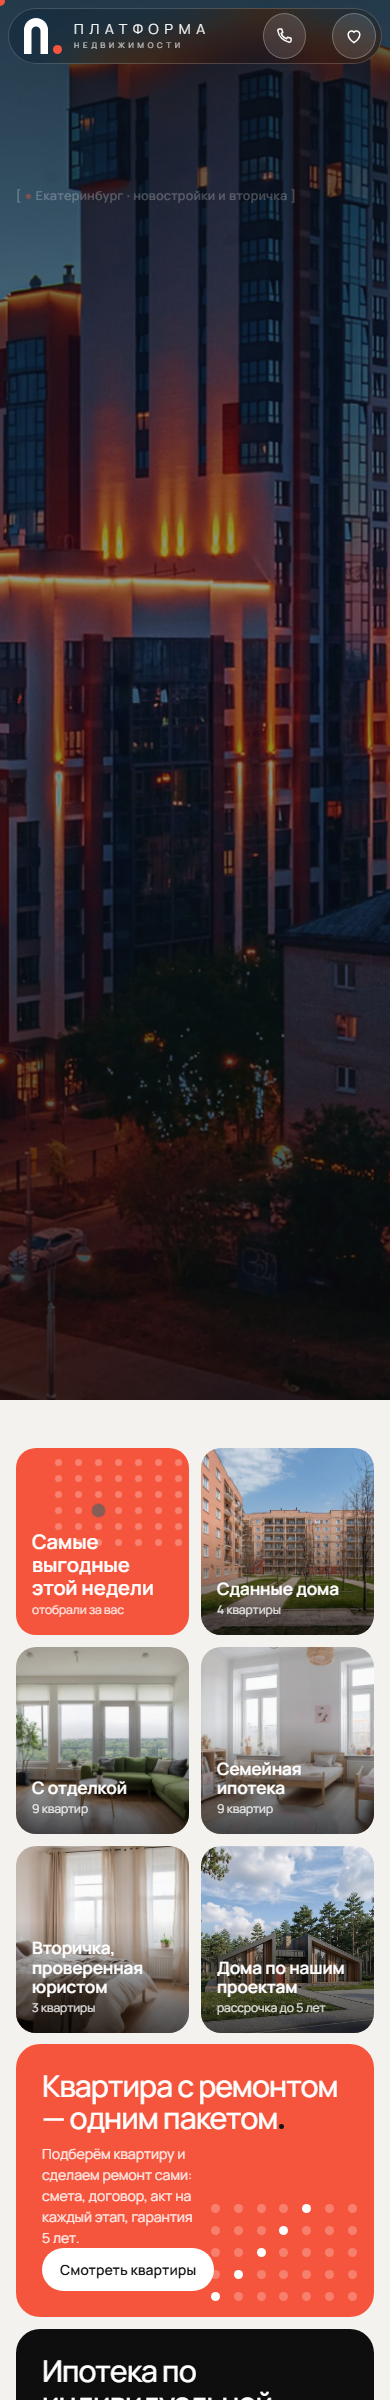
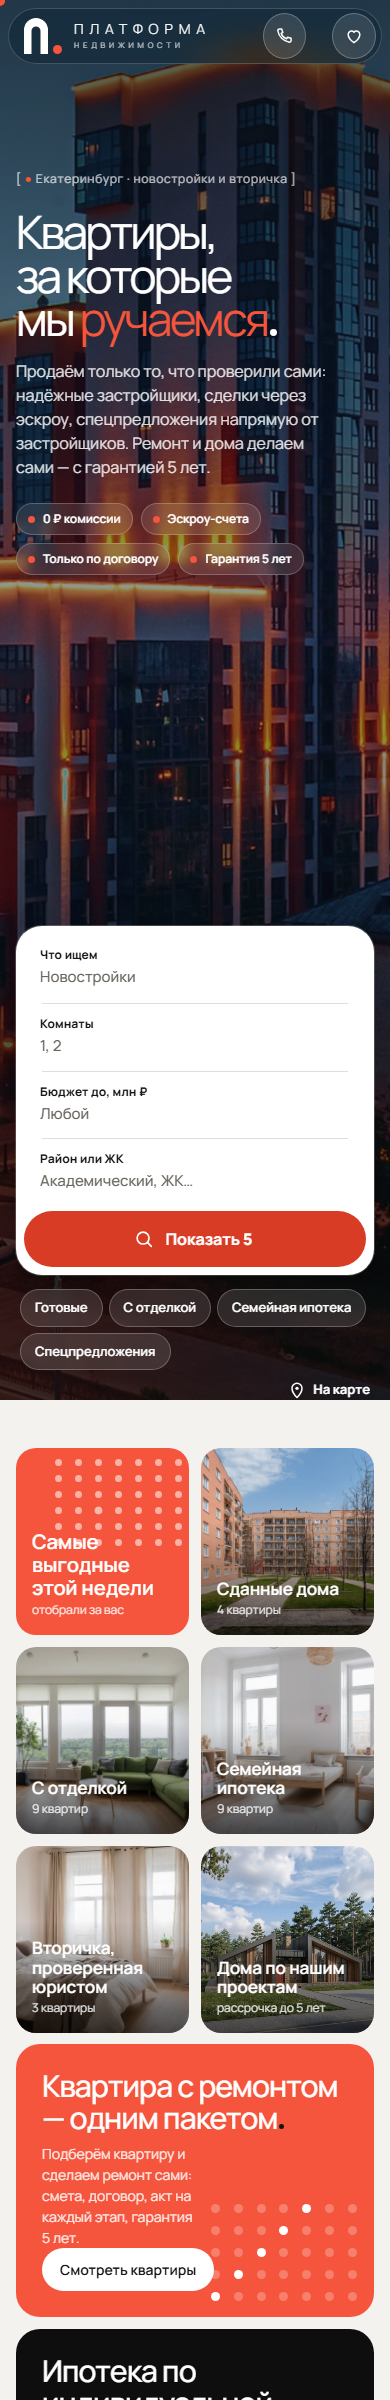
Заставка: режим ?shot для рендеров, исправлены мобильные снимки

Changed region(s): [[0.0, 0.0, 1.0, 0.6562], [0.4, 0.2812, 0.4615, 0.3438]]

diff --git a/index.html b/index.html
@@ -33,6 +33,6 @@ footer{border-top:1px solid #ffffff1a;padding:28px 0 40px;color:#8A867F;font-siz
 <div class="meta">Фирменный стиль<br>Екатеринбург · 2026</div></header>
 <h1>Квартира<i class="o"></i> Дом<i class="o"></i> Ремонт<i class="o"></i><br>Ставим точку<i class="o"></i></h1>
 <p class="lead">Материалы по бренду: презентация, пример сайта, личный кабинет, логотип и носители.</p>
-<main class="grid"><article class="card"><a class="pv" href="07_Презентация/"><img src="_hub/1.jpg?v=202611140051" alt="Презентация бренда" loading="lazy"></a><div class="tx"><span class="n">01</span><h2><a href="07_Презентация/">Презентация бренда<i class="o"></i></a></h2><p>Идея, знак и построение, цвета, шрифт, графика, иконка, слоганы, носители и сайт.</p><div class="act"><a class="open" href="07_Презентация/">Открыть</a><a class="dl" href="07_Презентация/Презентация_бренда.jpg" download>Скачать картинкой</a></div></div></article><article class="card"><a class="pv" href="08_Сайт_пример/"><img src="_hub/2.jpg?v=202611140051" alt="Пример сайта" loading="lazy"></a><div class="tx"><span class="n">02</span><h2><a href="08_Сайт_пример/">Пример сайта<i class="o"></i></a></h2><p>Поиск по квартирам, ремонту и домам на первом экране, карточки и карта. Работает на телефоне.</p><div class="act"><a class="open" href="08_Сайт_пример/">Открыть</a></div></div></article><article class="card"><a class="pv" href="08_Сайт_пример/kabinet.html"><img src="_hub/3.jpg?v=202611140051" alt="Личный кабинет (демо)" loading="lazy"></a><div class="tx"><span class="n">03</span><h2><a href="08_Сайт_пример/kabinet.html">Личный кабинет (демо)<i class="o"></i></a></h2><p>Камера на объекте, этапы и подпись актов, рассрочка 0 %, документы и чат с прорабом.</p><div class="act"><a class="open" href="08_Сайт_пример/kabinet.html">Открыть</a></div></div></article><article class="card"><a class="pv" href="06_П_точка/index.html"><img src="_hub/4.jpg?v=202611140051" alt="Логотип и система" loading="lazy"></a><div class="tx"><span class="n">04</span><h2><a href="06_П_точка/index.html">Логотип и система<i class="o"></i></a></h2><p>Знак «П.», версии логотипа, малые размеры, иконка, точка как система.</p><div class="act"><a class="open" href="06_П_точка/index.html">Открыть</a><a class="dl" href="06_П_точка/П_логотип.png" download>Скачать картинкой</a></div></div></article><article class="card"><a class="pv" href="06_П_точка/life.html"><img src="_hub/5.jpg?v=202611140051" alt="Бренд в жизни" loading="lazy"></a><div class="tx"><span class="n">05</span><h2><a href="06_П_точка/life.html">Бренд в жизни<i class="o"></i></a></h2><p>Вывеска, ограждение стройки, билборд, каска, спецодежда, визитки и соцсети.</p><div class="act"><a class="open" href="06_П_точка/life.html">Открыть</a><a class="dl" href="06_П_точка/П_в_жизни.png" download>Скачать картинкой</a></div></div></article></main>
+<main class="grid"><article class="card"><a class="pv" href="07_Презентация/"><img src="_hub/1.jpg?v=202611140054" alt="Презентация бренда" loading="lazy"></a><div class="tx"><span class="n">01</span><h2><a href="07_Презентация/">Презентация бренда<i class="o"></i></a></h2><p>Идея, знак и построение, цвета, шрифт, графика, иконка, слоганы, носители и сайт.</p><div class="act"><a class="open" href="07_Презентация/">Открыть</a><a class="dl" href="07_Презентация/Презентация_бренда.jpg" download>Скачать картинкой</a></div></div></article><article class="card"><a class="pv" href="08_Сайт_пример/"><img src="_hub/2.jpg?v=202611140054" alt="Пример сайта" loading="lazy"></a><div class="tx"><span class="n">02</span><h2><a href="08_Сайт_пример/">Пример сайта<i class="o"></i></a></h2><p>Поиск по квартирам, ремонту и домам на первом экране, карточки и карта. Работает на телефоне.</p><div class="act"><a class="open" href="08_Сайт_пример/">Открыть</a></div></div></article><article class="card"><a class="pv" href="08_Сайт_пример/kabinet.html"><img src="_hub/3.jpg?v=202611140054" alt="Личный кабинет (демо)" loading="lazy"></a><div class="tx"><span class="n">03</span><h2><a href="08_Сайт_пример/kabinet.html">Личный кабинет (демо)<i class="o"></i></a></h2><p>Камера на объекте, этапы и подпись актов, рассрочка 0 %, документы и чат с прорабом.</p><div class="act"><a class="open" href="08_Сайт_пример/kabinet.html">Открыть</a></div></div></article><article class="card"><a class="pv" href="06_П_точка/index.html"><img src="_hub/4.jpg?v=202611140054" alt="Логотип и система" loading="lazy"></a><div class="tx"><span class="n">04</span><h2><a href="06_П_точка/index.html">Логотип и система<i class="o"></i></a></h2><p>Знак «П.», версии логотипа, малые размеры, иконка, точка как система.</p><div class="act"><a class="open" href="06_П_точка/index.html">Открыть</a><a class="dl" href="06_П_точка/П_логотип.png" download>Скачать картинкой</a></div></div></article><article class="card"><a class="pv" href="06_П_точка/life.html"><img src="_hub/5.jpg?v=202611140054" alt="Бренд в жизни" loading="lazy"></a><div class="tx"><span class="n">05</span><h2><a href="06_П_точка/life.html">Бренд в жизни<i class="o"></i></a></h2><p>Вывеска, ограждение стройки, билборд, каска, спецодежда, визитки и соцсети.</p><div class="act"><a class="open" href="06_П_точка/life.html">Открыть</a><a class="dl" href="06_П_точка/П_в_жизни.png" download>Скачать картинкой</a></div></div></article></main>
 <footer>Цены, площади, имена и контакты на макетах — заглушки до данных заказчика.</footer>
 </div></body></html>

diff --git a/08_Сайт_пример/index.html b/08_Сайт_пример/index.html
@@ -808,6 +808,7 @@ main section[id],.after{scroll-margin-top:96px}
 .ldr-pc{position:absolute;right:clamp(16px,3.4vw,110px);bottom:calc(clamp(28px,6vh,64px) + 14px);font:500 13px Manrope;color:#8A867F;font-variant-numeric:tabular-nums}
 .ldr-city{position:absolute;left:clamp(16px,3.4vw,110px);bottom:calc(clamp(28px,6vh,64px) + 14px);font:500 13px Manrope;color:#8A867F}
 .ldr.quick .ldr-arch{animation-duration:.01s,.01s;animation-delay:0s,0s}.ldr.quick .ldr-dot{animation-duration:.3s;animation-delay:.05s}.ldr.quick .ldr-word b,.ldr.quick .ldr-word small{animation-duration:.2s;animation-delay:0s}
+.shot .hbg,.shot .hl>*,.shot .hero h1 i.o,.shot .sbox,.shot .chipv{animation:none!important}
 .js:not(.ready) .hbg,.js:not(.ready) .hl>*,.js:not(.ready) .hero h1 i.o,.js:not(.ready) .sbox,.js:not(.ready) .chipv{animation-play-state:paused}
 @media(max-width:800px){.ldr-in{flex-direction:column;gap:22px;text-align:center}.ldr-mark{width:72px;height:68px}.ldr-word b{font-size:22px}}
 @media(prefers-reduced-motion:reduce){.ldr{transition:opacity .4s}.ldr.out{transform:none;opacity:0}.ldr-arch{animation:none;fill:var(--milk);stroke-width:0}.ldr-dot,.ldr-word b,.ldr-word small{animation:none;opacity:1;transform:none;letter-spacing:.42em}.ldr-word small{letter-spacing:.5em}}
@@ -822,6 +823,8 @@ main section[id],.after{scroll-margin-top:96px}
 </div>
 <script>
 (() => {
+  if (/[?&]shot(&|$)/.test(location.search)) { document.getElementById('ldr').classList.add('gone'); document.documentElement.classList.add('shot'); html_ready(); return; }
+  function html_ready() { document.documentElement.classList.add('ready'); }
   const L = document.getElementById('ldr'), bar = document.getElementById('ldrBar'), pc = document.getElementById('ldrPc'), html = document.documentElement;
   let seen = false; try { seen = sessionStorage.getItem('pn_ldr') === '1'; sessionStorage.setItem('pn_ldr', '1'); } catch (e) {}
   const reduce = matchMedia('(prefers-reduced-motion: reduce)').matches, MIN = seen || reduce ? 500 : 1700, MAX = 4000, t0 = performance.now();

diff --git a/tools/patches/site_v26_loader.py b/tools/patches/site_v26_loader.py
@@ -32,6 +32,7 @@ CSS = r'''
 .ldr-pc{position:absolute;right:clamp(16px,3.4vw,110px);bottom:calc(clamp(28px,6vh,64px) + 14px);font:500 13px Manrope;color:#8A867F;font-variant-numeric:tabular-nums}
 .ldr-city{position:absolute;left:clamp(16px,3.4vw,110px);bottom:calc(clamp(28px,6vh,64px) + 14px);font:500 13px Manrope;color:#8A867F}
 .ldr.quick .ldr-arch{animation-duration:.01s,.01s;animation-delay:0s,0s}.ldr.quick .ldr-dot{animation-duration:.3s;animation-delay:.05s}.ldr.quick .ldr-word b,.ldr.quick .ldr-word small{animation-duration:.2s;animation-delay:0s}
+.shot .hbg,.shot .hl>*,.shot .hero h1 i.o,.shot .sbox,.shot .chipv{animation:none!important}
 .js:not(.ready) .hbg,.js:not(.ready) .hl>*,.js:not(.ready) .hero h1 i.o,.js:not(.ready) .sbox,.js:not(.ready) .chipv{animation-play-state:paused}
 @media(max-width:800px){.ldr-in{flex-direction:column;gap:22px;text-align:center}.ldr-mark{width:72px;height:68px}.ldr-word b{font-size:22px}}
 @media(prefers-reduced-motion:reduce){.ldr{transition:opacity .4s}.ldr.out{transform:none;opacity:0}.ldr-arch{animation:none;fill:var(--milk);stroke-width:0}.ldr-dot,.ldr-word b,.ldr-word small{animation:none;opacity:1;transform:none;letter-spacing:.42em}.ldr-word small{letter-spacing:.5em}}
@@ -45,6 +46,8 @@ LDR = f'''<div class="ldr" id="ldr" aria-hidden="true">
 </div>
 <script>
 (() => {{
+  if (/[?&]shot(&|$)/.test(location.search)) {{ document.getElementById('ldr').classList.add('gone'); document.documentElement.classList.add('shot'); html_ready(); return; }}
+  function html_ready() {{ document.documentElement.classList.add('ready'); }}
   const L = document.getElementById('ldr'), bar = document.getElementById('ldrBar'), pc = document.getElementById('ldrPc'), html = document.documentElement;
   let seen = false; try {{ seen = sessionStorage.getItem('pn_ldr') === '1'; sessionStorage.setItem('pn_ldr', '1'); }} catch (e) {{}}
   const reduce = matchMedia('(prefers-reduced-motion: reduce)').matches, MIN = seen || reduce ? 500 : 1700, MAX = 4000, t0 = performance.now();

diff --git a/tools/debug_js.py b/tools/debug_js.py
@@ -1,0 +1,18 @@
+"""Отладка: выполнить JS-выражение на странице сайта и вывести результат. Run из корня репо:
+py -3 -X utf8 tools/debug_js.py "<выражение JS>" [ширина] [query]"""
+import os, re, subprocess, sys
+
+SITE = os.path.join(os.path.dirname(os.path.dirname(os.path.abspath(__file__))), '08_Сайт_пример')
+EXPR = sys.argv[1]
+W = sys.argv[2] if len(sys.argv) > 2 else '1440'
+Q = sys.argv[3] if len(sys.argv) > 3 else ''
+s = open(os.path.join(SITE, 'index.html'), encoding='utf8').read()
+js = "<script>setTimeout(()=>{let r;try{r=String(" + EXPR + ")}catch(e){r='ERR '+e.message}document.body.setAttribute('data-r',r)},3000)</script>"
+out = os.path.join(SITE, '_d.html')
+open(out, 'w', encoding='utf8').write(s.replace('</body>', js + '</body>'))
+C = r'C:\Users\MSI\AppData\Local\Google\Chrome\Application\chrome.exe'
+d = subprocess.run([C, '--headless=new', '--disable-gpu', '--user-data-dir=' + os.environ['TEMP'] + r'\pn_chrome_test', '--allow-file-access-from-files',
+                    '--virtual-time-budget=6000', f'--window-size={W},900', '--dump-dom', 'file:///' + out.replace('\\', '/') + Q], capture_output=True, encoding='utf8').stdout
+os.remove(out)
+m = re.search(r'data-r="([^"]*)"', d or '')
+print(m.group(1) if m else 'none')

diff --git a/tools/crop_renders.py b/tools/crop_renders.py
@@ -13,7 +13,7 @@ def trim(im):
 
 
 d = trim(Image.open(T + '/site_full.png'))
-m = trim(Image.open(T + '/site_m.png').crop((0, 0, 390, 22000)))
+m = trim(Image.open(T + '/site_m.png').crop((0, 0, 390, 30000)))
 d.convert('RGB').save(S + 'full_desktop.jpg', quality=86); m.convert('RGB').save(S + 'full_mobile.jpg', quality=86)
 Image.open(T + '/site_first.png').save(S + 'desktop.png'); m.crop((0, 0, 390, 2400)).save(S + 'mobile.png')
 print('desktop', d.size, 'mobile', m.size)
